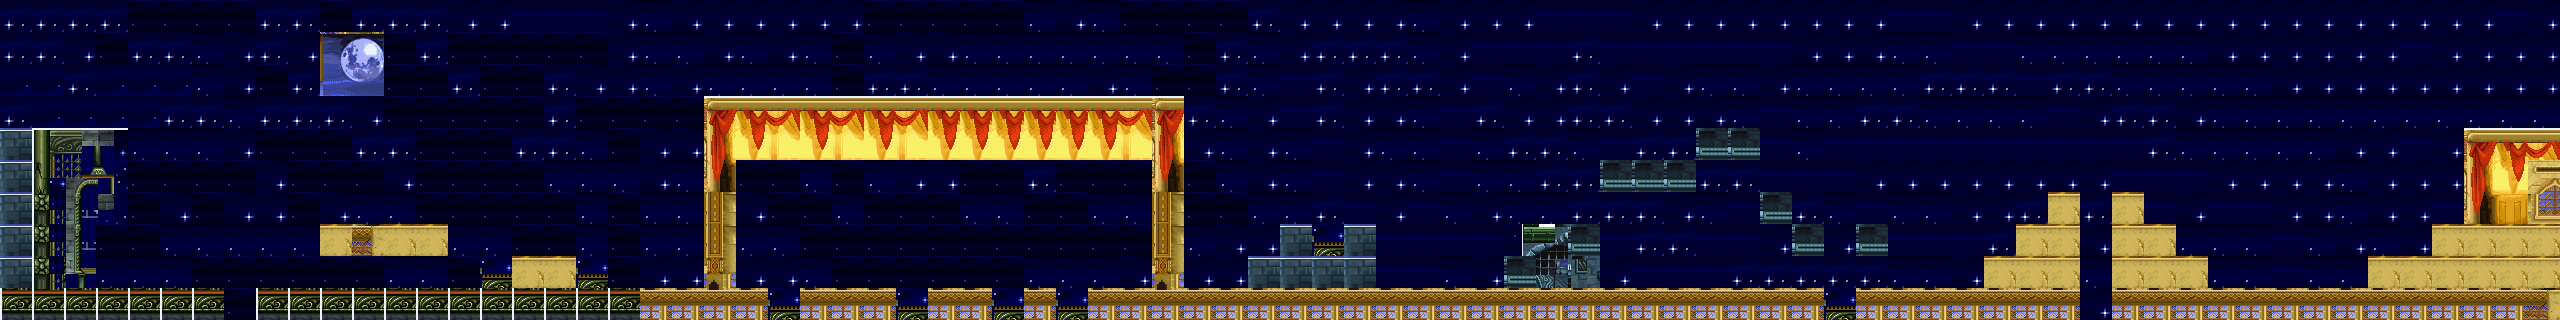
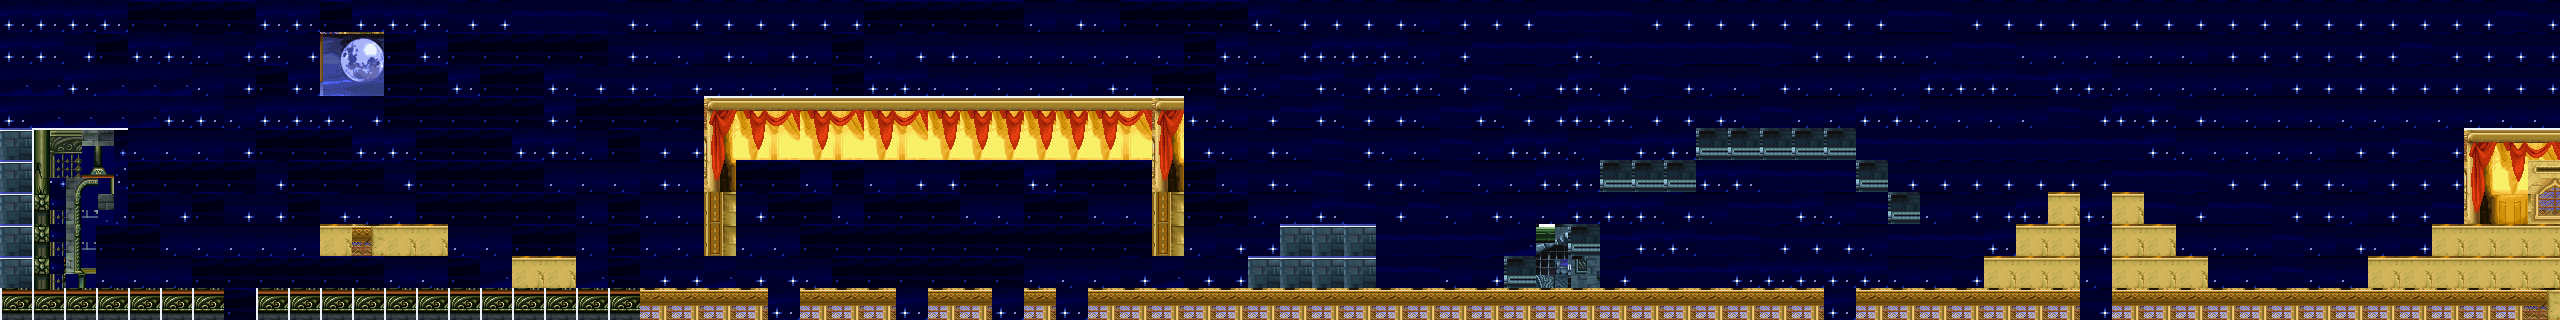
added instructoins

diff --git a/js/collosion.js b/js/collosion.js
@@ -1,37 +1,10 @@
-export const collision = [
-  0, 0, 0, 0, 0, 0, 0, 0, 0, 0, 0, 0, 0, 0, 0, 0, 0, 0, 0, 0, 0, 0, 0, 0, 0, 0,
-  0, 0, 0, 0, 0, 0, 0, 0, 0, 0, 0, 0, 0, 0, 0, 0, 0, 0, 0, 0, 0, 0, 0, 0, 0, 0,
-  0, 0, 0, 0, 0, 0, 0, 0, 0, 0, 0, 0, 0, 0, 0, 0, 0, 0, 0, 0, 0, 0, 0, 0, 0, 0,
-  0, 0, 0, 0, 0, 0, 0, 0, 0, 0, 0, 0, 0, 0, 0, 0, 0, 0, 0, 0, 0, 0, 0, 0, 0, 0,
-  0, 0, 0, 0, 0, 0, 0, 0, 0, 0, 0, 0, 0, 0, 0, 0, 0, 0, 0, 0, 0, 0, 0, 0, 0, 0,
-  0, 0, 0, 0, 0, 0, 0, 0, 0, 0, 0, 0, 0, 0, 0, 0, 0, 0, 0, 0, 0, 0, 0, 0, 0, 0,
-  0, 0, 0, 0, 0, 0, 0, 0, 0, 0, 0, 0, 0, 0, 0, 0, 0, 0, 0, 0, 0, 0, 0, 0, 0, 0,
-  0, 0, 0, 0, 0, 0, 0, 0, 0, 0, 0, 0, 0, 0, 0, 0, 0, 0, 0, 0, 0, 0, 0, 0, 0, 0,
-  0, 0, 0, 0, 0, 0, 0, 0, 0, 0, 0, 0, 0, 0, 0, 0, 0, 0, 0, 0, 0, 0, 0, 0, 0, 0,
-  0, 0, 0, 0, 0, 0, 0, 0, 0, 0, 0, 0, 0, 0, 0, 0, 0, 0, 0, 0, 0, 0, 0, 0, 0, 0,
-  0, 0, 280, 280, 280, 280, 280, 280, 280, 280, 280, 280, 280, 280, 280, 280,
-  280, 0, 0, 0, 0, 0, 0, 0, 0, 0, 0, 0, 0, 0, 0, 0, 0, 0, 0, 0, 0, 0, 0, 0, 0,
-  0, 0, 0, 0, 0, 0, 0, 0, 0, 0, 0, 0, 0, 0, 0, 0, 0, 0, 0, 280, 280, 280, 280,
-  0, 0, 0, 0, 0, 0, 0, 0, 0, 0, 0, 0, 0, 0, 0, 0, 0, 0, 280, 0, 0, 0, 0, 0, 0,
-  0, 0, 0, 0, 0, 0, 0, 280, 0, 0, 0, 0, 0, 0, 0, 0, 0, 0, 0, 0, 0, 0, 0, 0, 280,
-  280, 0, 0, 0, 0, 0, 0, 0, 0, 0, 0, 0, 0, 0, 0, 0, 0, 0, 0, 0, 0, 0, 0, 280,
-  280, 280, 0, 0, 0, 280, 0, 0, 0, 0, 0, 0, 0, 0, 0, 0, 0, 0, 0, 0, 0, 0, 0, 0,
-  280, 0, 0, 0, 0, 0, 0, 0, 0, 0, 0, 0, 0, 0, 280, 0, 0, 0, 0, 0, 0, 0, 0, 0, 0,
-  0, 0, 0, 280, 280, 280, 0, 0, 0, 0, 0, 0, 0, 0, 0, 0, 0, 0, 0, 0, 0, 0, 0, 0,
-  0, 0, 0, 0, 0, 0, 0, 0, 0, 0, 0, 280, 280, 0, 0, 0, 0, 0, 0, 0, 0, 0, 0, 0, 0,
-  0, 0, 0, 0, 0, 0, 280, 0, 0, 0, 0, 0, 0, 0, 0, 0, 0, 0, 0, 0, 280, 0, 0, 0, 0,
-  0, 0, 0, 0, 0, 0, 0, 0, 0, 0, 0, 0, 0, 0, 280, 0, 0, 0, 0, 0, 0, 0, 0, 280, 0,
-  280, 0, 0, 0, 0, 0, 0, 0, 0, 0, 0, 0, 0, 0, 0, 0, 280, 0, 0, 0, 0, 0, 0, 0,
-  280, 280, 280, 280, 0, 0, 0, 0, 0, 0, 0, 0, 280, 0, 0, 0, 0, 0, 0, 0, 0, 0, 0,
-  0, 0, 0, 280, 0, 0, 0, 280, 0, 280, 0, 0, 0, 0, 0, 280, 280, 0, 0, 0, 0, 0, 0,
-  280, 0, 280, 0, 0, 0, 0, 280, 280, 0, 280, 280, 0, 0, 0, 0, 0, 0, 0, 0, 280,
-  0, 0, 0, 0, 0, 280, 0, 0, 0, 0, 0, 0, 0, 0, 0, 0, 0, 0, 280, 280, 280, 280, 0,
-  0, 0, 0, 0, 0, 0, 0, 0, 0, 0, 0, 0, 0, 0, 0, 0, 0, 0, 0, 280, 0, 280, 280, 0,
-  0, 0, 0, 280, 0, 280, 0, 0, 0, 0, 0, 0, 0, 0, 0, 0, 0, 0, 280, 0, 280, 0, 280,
-  0, 280, 0, 0, 0, 0, 0, 280, 280, 0, 0, 0, 0, 0, 0, 280, 280, 280, 280, 280, 0,
-  280, 280, 280, 280, 280, 280, 280, 0, 0, 0, 0, 280, 280, 280, 280, 280, 0,
-  280, 280, 280, 280, 280, 280, 0, 280, 0, 280, 280, 280, 280, 280, 280, 280,
-  280, 280, 280, 280, 280, 280, 280, 280, 280, 280, 280, 280, 280, 280, 280,
-  280, 0, 280, 280, 280, 280, 280, 280, 280, 0, 280, 280, 280, 280, 280, 280,
-  280, 280, 280, 280, 280, 280, 280, 280,
-];
+export const collision = [0, 0, 0, 0, 0, 0, 0, 0, 0, 0, 0, 0, 0, 0, 0, 0, 0, 0, 0, 0, 0, 0, 0, 0, 0, 0, 0, 0, 0, 0, 0, 0, 0, 0, 0, 0, 0, 0, 0, 0, 0, 0, 0, 0, 0, 0, 0, 0, 0, 0, 0, 0, 0, 0, 0, 0, 0, 0, 0, 0, 0, 0, 0, 0, 0, 0, 0, 0, 0, 0, 0, 0, 0, 0, 0, 0, 0, 0, 0, 0,
+  0, 0, 0, 0, 0, 0, 0, 0, 0, 0, 0, 0, 0, 0, 0, 0, 0, 0, 0, 0, 0, 0, 0, 0, 0, 0, 0, 0, 0, 0, 0, 0, 0, 0, 0, 0, 0, 0, 0, 0, 0, 0, 0, 0, 0, 0, 0, 0, 0, 0, 0, 0, 0, 0, 0, 0, 0, 0, 0, 0, 0, 0, 0, 0, 0, 0, 0, 0, 0, 0, 0, 0, 0, 0, 0, 0, 0, 0, 0, 0,
+  0, 0, 0, 0, 0, 0, 0, 0, 0, 0, 0, 0, 0, 0, 0, 0, 0, 0, 0, 0, 0, 0, 0, 0, 0, 0, 0, 0, 0, 0, 0, 0, 0, 0, 0, 0, 0, 0, 0, 0, 0, 0, 0, 0, 0, 0, 0, 0, 0, 0, 0, 0, 0, 0, 0, 0, 0, 0, 0, 0, 0, 0, 0, 0, 0, 0, 0, 0, 0, 0, 0, 0, 0, 0, 0, 0, 0, 0, 0, 0,
+  0, 0, 0, 0, 0, 0, 0, 0, 0, 0, 0, 0, 0, 0, 0, 0, 0, 0, 0, 0, 0, 0, 280, 280, 280, 280, 280, 280, 280, 280, 280, 280, 280, 280, 280, 280, 280, 0, 0, 0, 0, 0, 0, 0, 0, 0, 0, 0, 0, 0, 0, 0, 0, 0, 0, 0, 0, 0, 0, 0, 0, 0, 0, 0, 0, 0, 0, 0, 0, 0, 0, 0, 0, 0, 0, 0, 0, 0, 0, 0,
+  280, 280, 280, 280, 0, 0, 0, 0, 0, 0, 0, 0, 0, 0, 0, 0, 0, 0, 0, 0, 0, 0, 280, 0, 0, 0, 0, 0, 0, 0, 0, 0, 0, 0, 0, 0, 280, 0, 0, 0, 0, 0, 0, 0, 0, 0, 0, 0, 0, 0, 0, 0, 0, 280, 280, 280, 280, 280, 0, 0, 0, 0, 0, 0, 0, 0, 0, 0, 0, 0, 0, 0, 0, 0, 0, 0, 0, 280, 280, 280,
+  0, 0, 0, 280, 0, 0, 0, 0, 0, 0, 0, 0, 0, 0, 0, 0, 0, 0, 0, 0, 0, 0, 280, 0, 0, 0, 0, 0, 0, 0, 0, 0, 0, 0, 0, 0, 280, 0, 0, 0, 0, 0, 0, 0, 0, 0, 0, 0, 0, 0, 280, 280, 280, 0, 0, 0, 0, 0, 280, 0, 0, 0, 0, 0, 0, 0, 0, 0, 0, 0, 0, 0, 0, 0, 0, 0, 0, 0, 0, 0,
+  0, 0, 280, 280, 0, 0, 0, 0, 0, 0, 0, 0, 0, 0, 0, 0, 0, 0, 0, 0, 0, 0, 280, 0, 0, 0, 0, 0, 0, 0, 0, 0, 0, 0, 0, 0, 280, 0, 0, 0, 0, 0, 0, 0, 0, 0, 0, 0, 0, 0, 0, 0, 0, 0, 0, 0, 0, 0, 0, 280, 0, 0, 0, 0, 280, 0, 280, 0, 0, 0, 0, 0, 0, 0, 0, 0, 0, 0, 0, 0,
+  0, 0, 280, 0, 0, 0, 0, 0, 0, 0, 280, 280, 280, 280, 0, 0, 0, 0, 0, 0, 0, 0, 280, 0, 0, 0, 0, 0, 0, 0, 0, 0, 0, 0, 0, 0, 280, 0, 0, 0, 280, 280, 280, 0, 0, 0, 0, 0, 280, 280, 0, 0, 0, 0, 0, 0, 0, 0, 0, 0, 0, 0, 0, 280, 280, 0, 280, 280, 0, 0, 0, 0, 0, 0, 0, 0, 280, 0, 0, 0,
+  0, 0, 280, 0, 0, 0, 0, 0, 0, 0, 0, 0, 0, 0, 0, 0, 280, 280, 0, 0, 0, 0, 0, 0, 0, 0, 0, 0, 0, 0, 0, 0, 0, 0, 0, 0, 0, 0, 0, 280, 0, 280, 280, 0, 0, 0, 0, 280, 0, 280, 0, 0, 0, 0, 0, 0, 0, 0, 0, 0, 0, 0, 280, 0, 280, 0, 280, 0, 280, 0, 0, 0, 0, 0, 280, 280, 0, 0, 0, 0,
+  0, 0, 280, 280, 280, 280, 280, 0, 280, 280, 280, 280, 280, 280, 280, 280, 0, 0, 280, 280, 280, 280, 280, 280, 0, 280, 280, 280, 0, 280, 280, 0, 280, 0, 280, 280, 280, 280, 280, 280, 280, 280, 280, 280, 280, 280, 280, 280, 280, 280, 280, 280, 280, 280, 280, 280, 280, 0, 280, 280, 280, 280, 280, 280, 280, 0, 280, 280, 280, 280, 280, 280, 280, 280, 280, 280, 280, 280, 280, 280];

diff --git a/css/style.css b/css/style.css
@@ -79,8 +79,29 @@ a{
     background-color: rgb(25, 24, 24);
 }
 
-p{
+.intro{
     color: rgb(210, 97, 84);
     font-size: 3rem;
     padding-left: 30px;
+}
+
+/*box*/
+.box{
+    height: 250px;
+    width: 200px;
+    background-color: rgb(25, 24, 23);
+   position: absolute;
+   top: 30vh;
+   left: 30px;
+}
+.move{
+    font-size: 1rem;
+    padding: 15px;
+    color: rgb(196, 191, 185);
+
+}
+
+span{
+    color: rgb(93, 161, 161);
+    background-color: rgb(2, 2, 2);
 }

diff --git a/game_screen.html b/game_screen.html
@@ -7,6 +7,17 @@
     <link rel="stylesheet" href="./css/style.css">
 </head>
 <body>
+    <!--Box-->
+    <div class="box">
+     <p class="move"> PRESS <span>Z</span> TO SUMMON SWORD</p>
+     <p class="move"><span>SPACE</span> TO JUMP</p>
+     <p class="move">PRESS <span>X</span> TO FIGHT</p>
+     <p class="move"></p>
+        
+
+    </div>
+
+    <!--canvas-->
     <canvas id="canvas"></canvas>
 </body>
 <script type="module" src="./js/game.js" ></script>

diff --git a/End-Page.html b/End-Page.html
@@ -8,8 +8,8 @@
 </head>
 <body>
     <div id="one">
-        <p>PROGRAMMED BY  :  ANKIT VARSHNEY, PRASHANT KUSHWAHA</p>
-        <P>SKILLS USE  : HTML, CSS, JAVA-SCRIPT.</P>
+        <p class="intro">PROGRAMMED BY  :  ANKIT VARSHNEY, PRASHANT KUSHWAHA</p>
+        <P class="intro">SKILLS USE  : HTML, CSS, JAVA-SCRIPT.</P>
     </div>
     
 </body>
